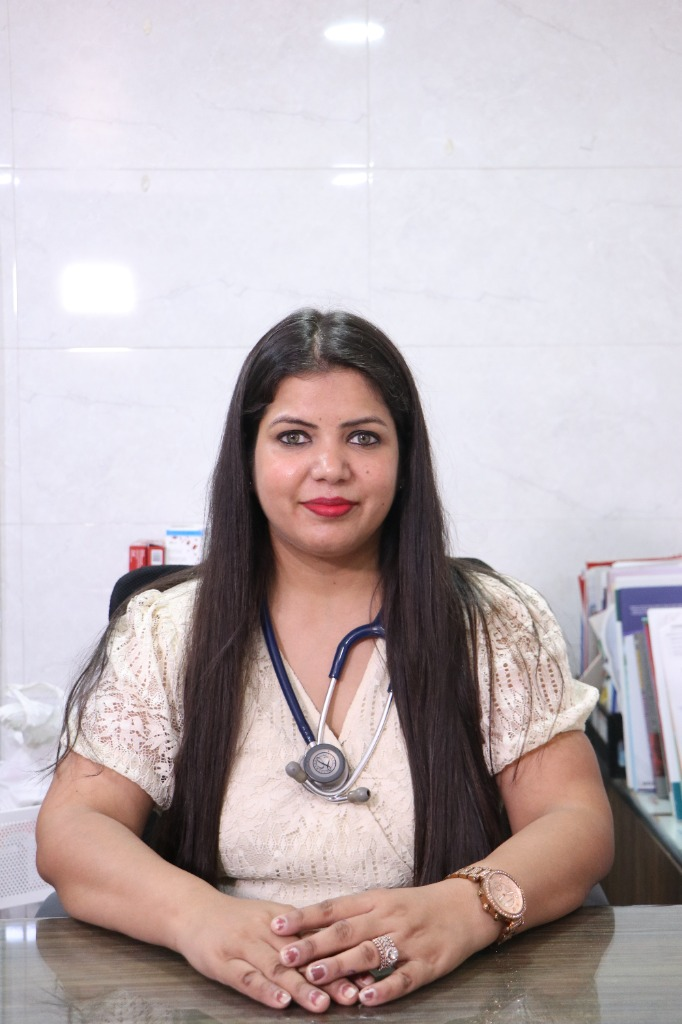
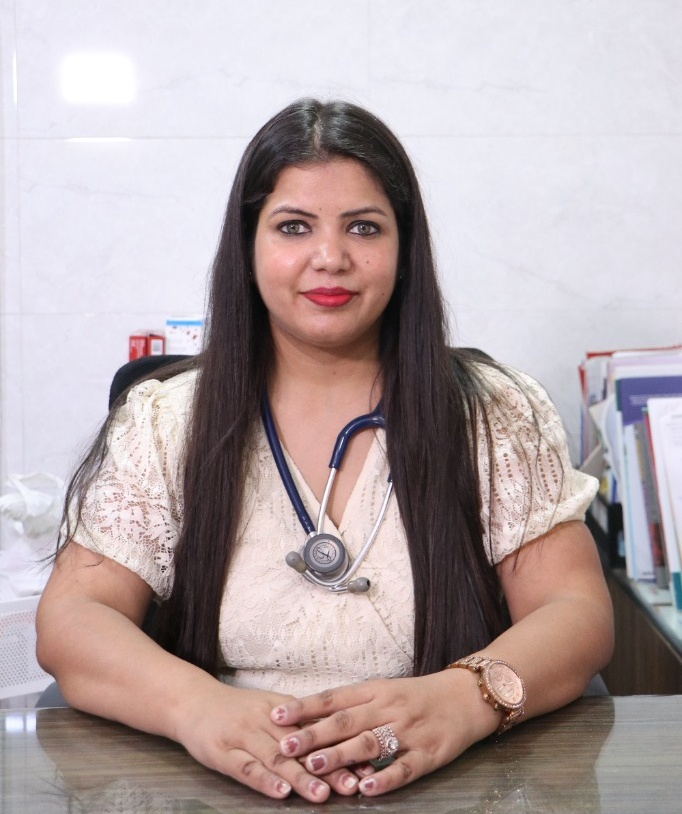
fix: center doctor portrait framing and update object positioning across all pages

diff --git a/src/components/sections/HeroSection.tsx b/src/components/sections/HeroSection.tsx
@@ -131,7 +131,7 @@ export function HeroSection() {
               <div className="absolute -inset-3 rounded-[32px] bg-gradient-to-tr from-brandBlue/20 via-brandCyan/20 to-brandBlue-soft/40 -rotate-1 -z-10 blur-sm" />
 
               {/* Floating Badge 1: Top Right (Verified Doctor Badge) */}
-              <div className="absolute -top-4 -right-2 sm:-right-4 bg-white/95 backdrop-blur-md rounded-element p-3 shadow-card border border-borderSubtle flex items-center gap-2.5 animate-float-slow z-20">
+              <div className="absolute -top-3 -right-2 sm:-right-4 bg-white/95 backdrop-blur-md rounded-element p-3 shadow-card border border-borderSubtle flex items-center gap-2.5 animate-float-slow z-20">
                 <div className="w-9 h-9 rounded-full bg-amber-50 border border-amber-200 flex items-center justify-center text-amber-500 shrink-0">
                   <Star className="w-4 h-4 fill-amber-400" />
                 </div>
@@ -142,7 +142,7 @@ export function HeroSection() {
               </div>
 
               {/* Floating Badge 2: Top Left (Hospital Credentials) */}
-              <div className="absolute top-12 -left-3 sm:-left-6 bg-white/95 backdrop-blur-md rounded-element p-3 shadow-card border border-borderSubtle flex items-center gap-2.5 animate-float-delayed z-20 max-w-[210px]">
+              <div className="absolute top-8 -left-3 sm:-left-6 bg-white/95 backdrop-blur-md rounded-element p-3 shadow-card border border-borderSubtle flex items-center gap-2.5 animate-float-delayed z-20 max-w-[210px]">
                 <div className="w-8 h-8 rounded-full bg-brandBlue-soft flex items-center justify-center text-brandBlue shrink-0">
                   <ShieldCheck className="w-4 h-4" />
                 </div>
@@ -155,14 +155,14 @@ export function HeroSection() {
               {/* Main Photo Card Container with Clean Profile Plate */}
               <div className="relative rounded-[28px] overflow-hidden bg-white border-2 border-white shadow-2xl">
                 {/* Doctor Portrait - Clean and Unobstructed */}
-                <div className="relative aspect-[4/4.2] w-full overflow-hidden bg-brandBlue-pale">
+                <div className="relative aspect-[4/4.4] w-full overflow-hidden bg-brandBlue-pale">
                   <Image
                     src="/images/doctor/dr-shikha-gupta.jpg"
                     alt="Dr. Shikha Gupta, Consultant Paediatrician in Kamla Nagar, Delhi"
                     fill
                     priority
                     sizes="(max-width: 768px) 100vw, (max-width: 1200px) 45vw, 480px"
-                    className="object-cover object-top hover:scale-103 transition-transform duration-500"
+                    className="object-cover object-center hover:scale-103 transition-transform duration-500"
                   />
                 </div>
 

diff --git a/src/app/about/page.tsx b/src/app/about/page.tsx
@@ -94,14 +94,14 @@ export default function AboutPage() {
             {/* Left Card: Doctor Overview with Real Photo */}
             <div className="lg:col-span-5 space-y-6">
               <div className="rounded-[28px] overflow-hidden border border-borderSubtle bg-white shadow-card p-4 space-y-6">
-                <div className="relative aspect-[4/4.2] w-full rounded-[20px] overflow-hidden bg-brandBlue-pale">
+                <div className="relative aspect-[4/4.4] w-full rounded-[20px] overflow-hidden bg-brandBlue-pale">
                   <Image
                     src="/images/doctor/dr-shikha-gupta.jpg"
                     alt="Dr. Shikha Gupta, Consultant Paediatrician"
                     fill
                     priority
                     sizes="(max-width: 768px) 100vw, 400px"
-                    className="object-cover object-top"
+                    className="object-cover object-center"
                   />
                 </div>
 

diff --git a/src/components/sections/DoctorPreviewSection.tsx b/src/components/sections/DoctorPreviewSection.tsx
@@ -23,13 +23,13 @@ export function DoctorPreviewSection() {
           <div className="lg:col-span-5 relative">
             <div className="relative mx-auto max-w-sm sm:max-w-md lg:max-w-none">
               <div className="relative rounded-[28px] overflow-hidden border-2 border-borderSubtle bg-white shadow-xl">
-                <div className="relative aspect-[4/4.2] w-full overflow-hidden bg-brandBlue-pale">
+                <div className="relative aspect-[4/4.4] w-full overflow-hidden bg-brandBlue-pale">
                   <Image
                     src="/images/doctor/dr-shikha-gupta.jpg"
                     alt="Dr. Shikha Gupta, Paediatrician"
                     fill
                     sizes="(max-width: 768px) 100vw, 450px"
-                    className="object-cover object-top"
+                    className="object-cover object-center"
                   />
                 </div>
 

diff --git a/src/app/reviews/page.tsx b/src/app/reviews/page.tsx
@@ -111,7 +111,7 @@ export default function ReviewsPage() {
                 alt="Dr. Shikha Gupta"
                 fill
                 sizes="112px"
-                className="object-cover object-top"
+                className="object-cover object-center"
               />
             </div>
             <div className="space-y-3 text-center md:text-left flex-1">

diff --git a/src/app/faqs/page.tsx b/src/app/faqs/page.tsx
@@ -137,7 +137,7 @@ export default function FAQsPage() {
                 alt="Dr. Shikha Gupta"
                 fill
                 sizes="64px"
-                className="object-cover object-top"
+                className="object-cover object-center"
               />
             </div>
             <div className="space-y-1 text-center sm:text-left flex-1">

diff --git a/src/app/appointment/page.tsx b/src/app/appointment/page.tsx
@@ -65,7 +65,7 @@ export default function AppointmentPage() {
                     alt="Dr. Shikha Gupta"
                     fill
                     sizes="56px"
-                    className="object-cover object-top"
+                    className="object-cover object-center"
                   />
                 </div>
                 <div>

diff --git a/src/app/contact/page.tsx b/src/app/contact/page.tsx
@@ -72,7 +72,7 @@ export default function ContactPage() {
                     alt="Dr. Shikha Gupta"
                     fill
                     sizes="56px"
-                    className="object-cover object-top"
+                    className="object-cover object-center"
                   />
                 </div>
                 <div>

diff --git a/src/components/sections/WelcomePreview.tsx b/src/components/sections/WelcomePreview.tsx
@@ -114,7 +114,7 @@ export function WelcomePreview() {
                   alt="Dr. Shikha Gupta"
                   fill
                   sizes="128px"
-                  className="object-cover object-top"
+                  className="object-cover object-center"
                 />
               </div>
             </div>

diff --git a/src/components/sections/CtaSection.tsx b/src/components/sections/CtaSection.tsx
@@ -25,7 +25,7 @@ export function CtaSection() {
               alt="Dr. Shikha Gupta"
               fill
               sizes="56px"
-              className="object-cover object-top"
+              className="object-cover object-center"
             />
           </div>
           <div className="text-left">
